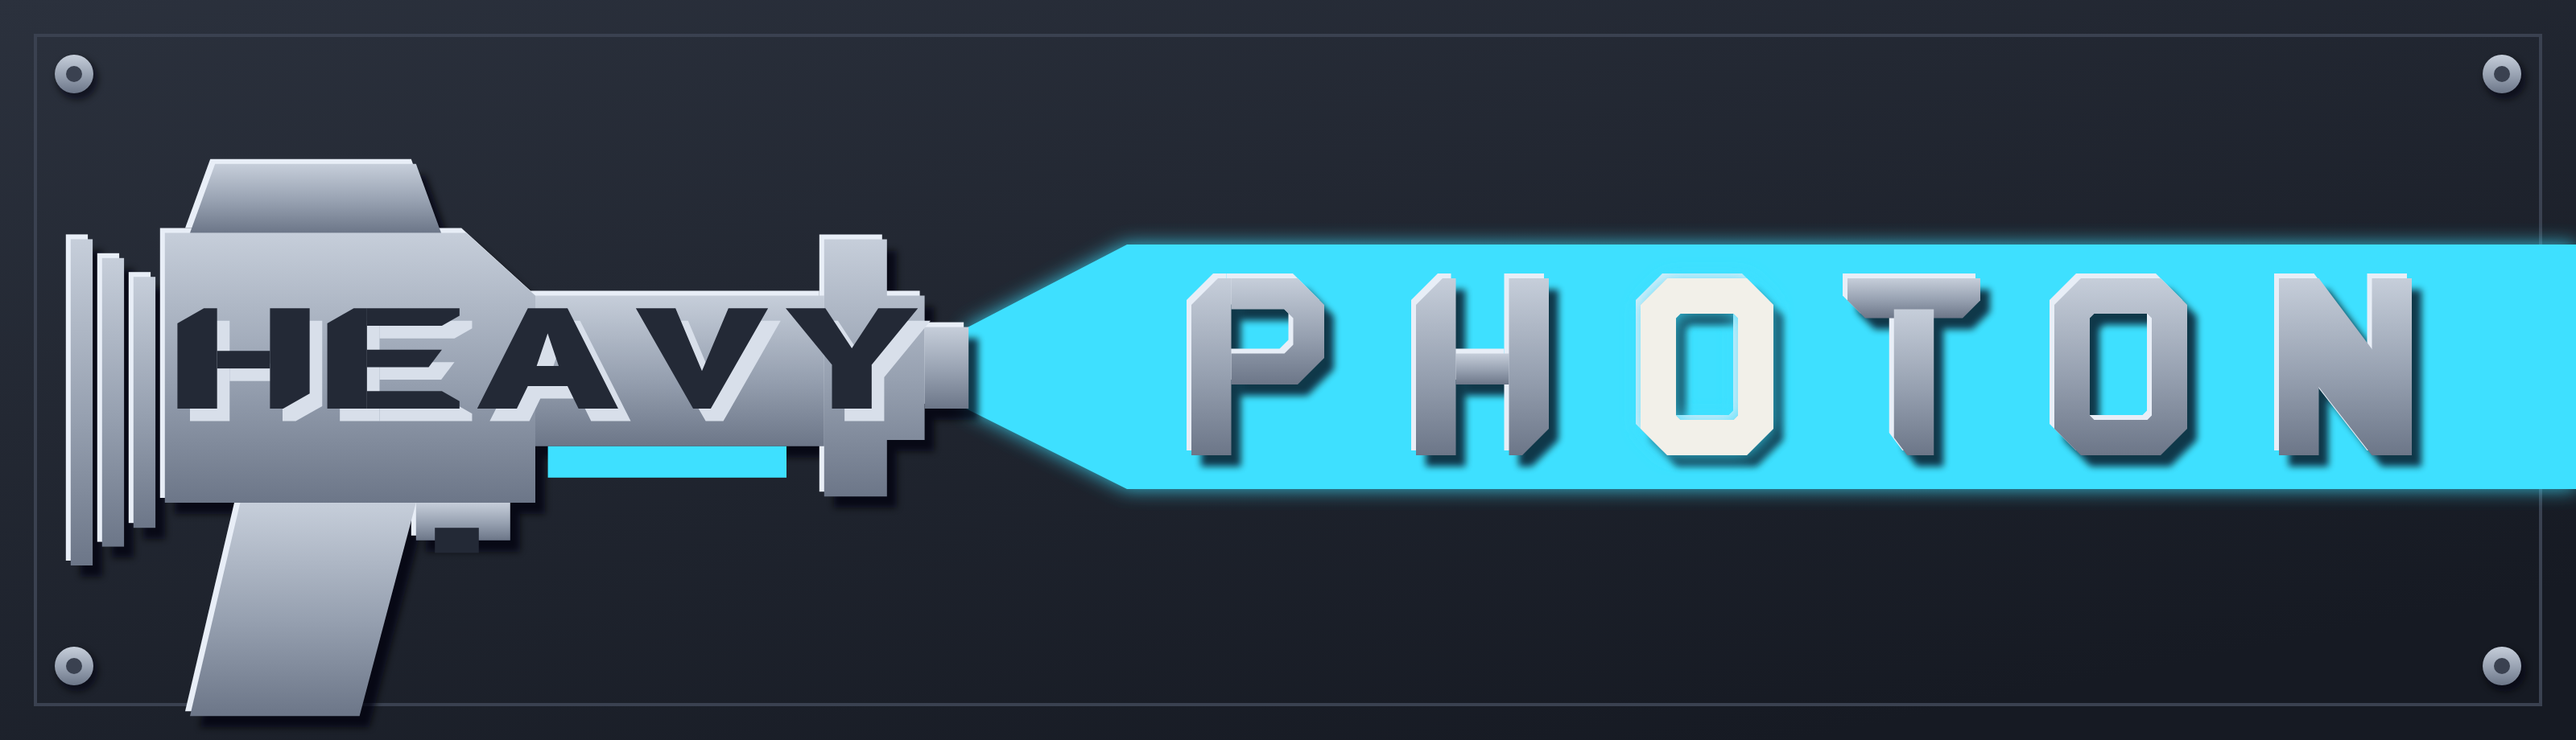
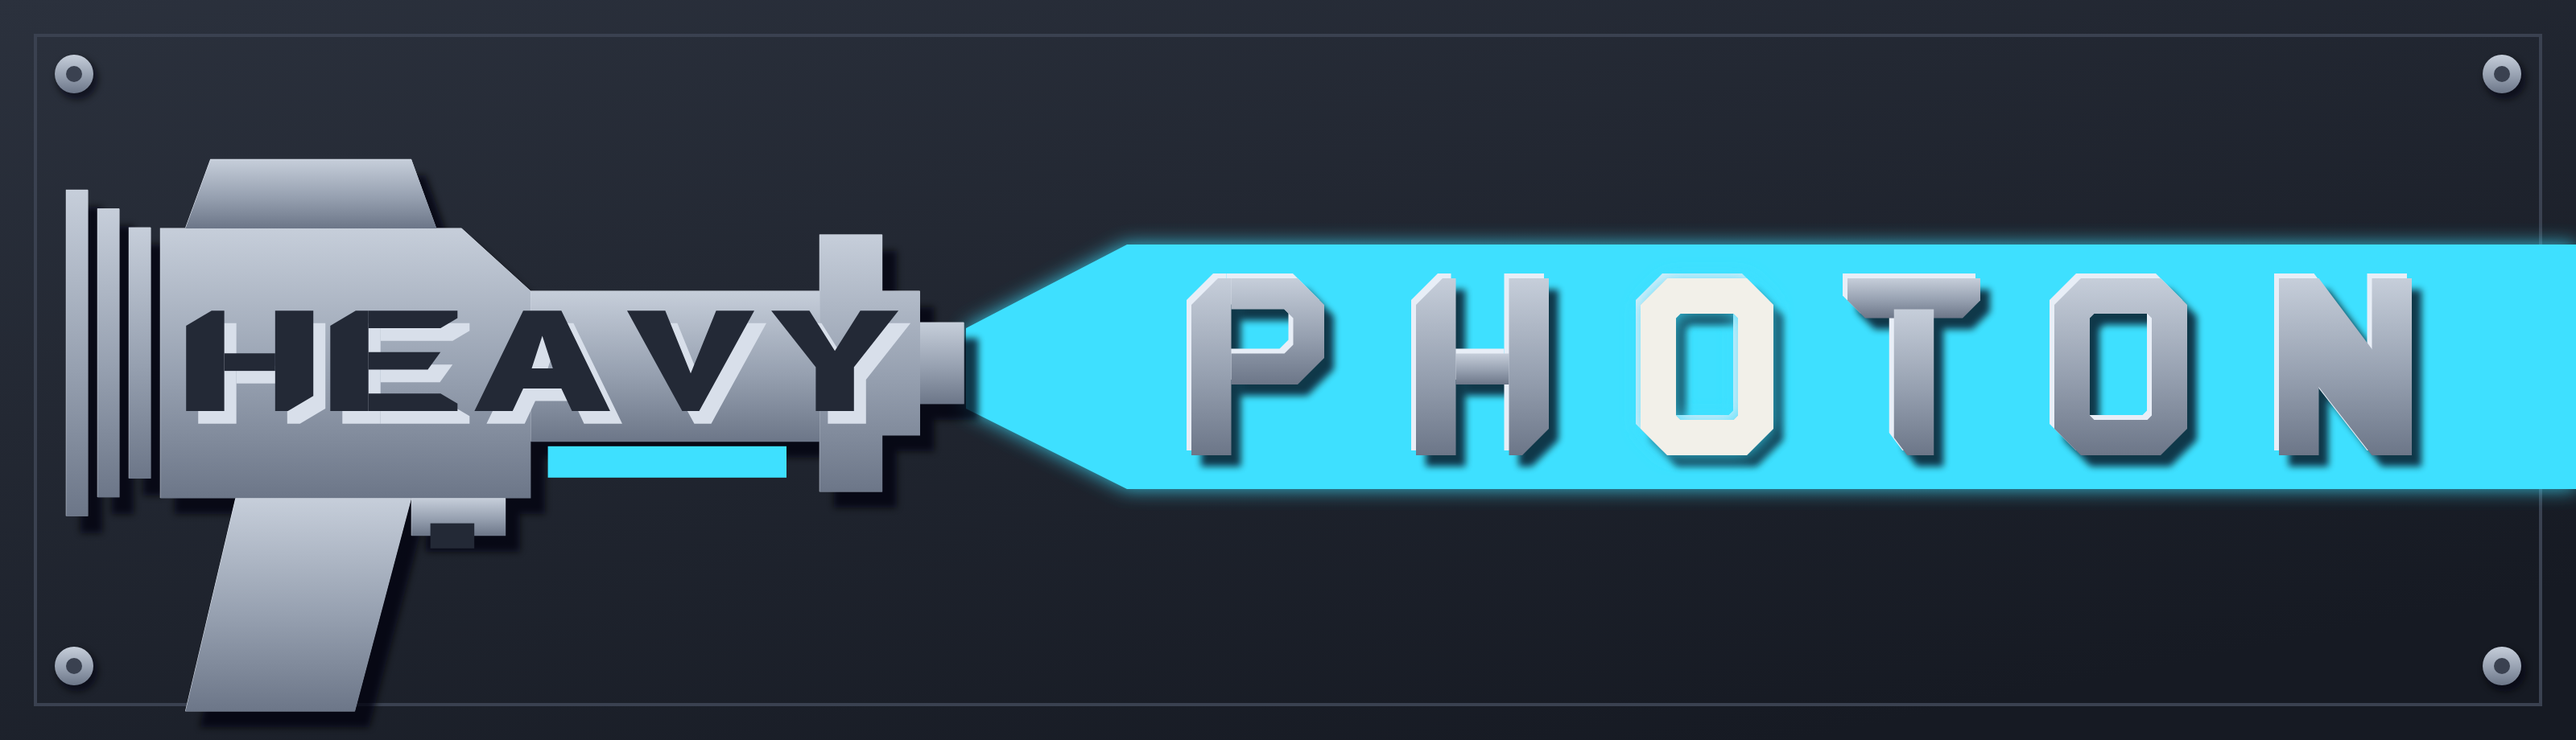
Restructure compact cuts into per-object groups for hand editing
Every gun part (fins, grip, body, sight, trigger, barrel, muzzle, tip)
and every letter is now its own named group stacking all of its layers
- shadow, highlight, face, and attached details - so resizing an object
in an editor moves its fx with it. Steel cut gains per-part shadows as
a side effect (parts now shade each other). Generator now refuses to
overwrite SVGs re-saved from Inkscape, protecting hand edits.

Claude-Session: https://claude.ai/code/session_01GDhheF8L6mvevw6cngMkTc

diff --git a/branding/genlogos.py b/branding/genlogos.py
@@ -71,10 +71,18 @@ def justify_spacing(text, target_w):
     return (target_w - glyph_w) / (len(text) - 1)
 
 def svg_file(name, w, h, body, bg=None):
+    path = os.path.join(OUT, name)
+    # never clobber a file that was hand-edited in Inkscape; delete it first
+    # if you really want to regenerate it from here
+    if os.path.exists(path):
+        with open(path) as f:
+            if "inkscape" in f.read(4096):
+                print("SKIP", name, "(hand-edited in Inkscape)")
+                return
     bgrect = f'<rect width="{w}" height="{h}" fill="{bg}"/>' if bg else ""
     doc = (f'<svg xmlns="http://www.w3.org/2000/svg" viewBox="0 0 {w} {h}" '
            f'width="{w}" height="{h}">{bgrect}{body}</svg>')
-    with open(os.path.join(OUT, name), "w") as f:
+    with open(path, "w") as f:
         f.write(doc)
     print("wrote", name)
 
@@ -617,15 +625,73 @@ def brand_photon_small(fill, accent):
 
 CHARGE_TICK = 'M292,98 L304,107 L292,116 Z'
 
+# The compact cuts are structured for hand-editing: every part of the gun is
+# its own <g id=...> containing ALL of that part's layers (shadow, highlight,
+# face, plus attached details like the rail or trigger notch), so scaling or
+# moving one object in an editor carries its fx copies with it.
+COMPACT_SHAPES = [
+    ("fin-1",   '<rect x="2" y="66" width="7" height="104"/>'),
+    ("fin-2",   '<rect x="12" y="72" width="7" height="92"/>'),
+    ("fin-3",   '<rect x="22" y="78" width="7" height="80"/>'),
+    ("grip",    '<path d="M56,150 L112,150 L94,218 L40,218 Z"/>'),
+    ("body",    '<path d="M32,64 L128,64 L150,76 L150,150 L32,150 Z"/>'),
+    ("sight",   '<path d="M48,42 L112,42 L120,64 L40,64 Z"/>'),
+    ("trigger", '<rect x="112" y="150" width="30" height="12"/>'),
+    ("barrel",  '<path d="M150,76 L242,76 L242,140 L150,140 Z"/>'),
+    ("muzzle",  '<path d="M242,66 L262,66 L262,82 L274,82 L274,134 '
+                'L262,134 L262,148 L242,148 Z"/>'),
+    ("tip",     '<rect x="274" y="94" width="14" height="26"/>'),
+]
+
+def compact_extras(name, accent, notch_fill):
+    """Details that belong inside a specific object's group."""
+    if name == "trigger":
+        return f'<rect x="118" y="158" width="14" height="8" fill="{notch_fill}"/>'
+    if name == "barrel":
+        return f'<rect x="154" y="144" width="76" height="10" fill="{accent}"/>'
+    if name == "tip":
+        return f'<path d="{CHARGE_TICK}" fill="{accent}"/>'
+    return ""
+
+def wordmark2_grouped(text, spacing=12, accents=None, accent_fill=None,
+                      layers=(("", (0, 0)),), kern=None, prefix="g"):
+    """Per-glyph groups; each glyph group stacks one copy per layer
+    (fill, (dx,dy)) bottom-to-top, so a glyph's fx move with the glyph.
+    Accent glyphs swap the TOP layer's fill for accent_fill."""
+    accents = accents or set()
+    kern = kern or {}
+    x = 0.0
+    out = []
+    for i, ch in enumerate(text):
+        if ch != " ":
+            parts = "".join(glyph_parts2(ch, 0))
+            copies = []
+            for li, (fill, (dx, dy)) in enumerate(layers):
+                f = fill
+                if i in accents and accent_fill and li == len(layers) - 1:
+                    f = accent_fill
+                attr = f' fill="{f}"' if f else ""
+                tr = f' transform="translate({dx} {dy})"' if (dx or dy) else ""
+                copies.append(f'<g{attr}{tr}>{parts}</g>')
+            out.append(f'<g id="{prefix}-{ch.lower()}{i}" '
+                       f'transform="translate({x} 0)">{"".join(copies)}</g>')
+        x += GLYPHS2[ch]["w"] + spacing + kern.get(i, 0)
+    return "".join(out)
+
 def raygun_v2_compact():
     W, H = CP["W"], CP["H"]
-    body = [f'<g transform="{CP["gun_t"]}">'
-            f'<g fill="{BONE}">{raygun2_struct(fat=True, shelf=False)}</g>'
-            f'{raygun2_energy(CYAN, vents=False, rail_y=144)}'
-            f'<rect x="118" y="158" width="14" height="8" fill="{INK}"/>'
-            f'{brand_heavy(INK, 92)}'
-            f'{brand_photon_small(INK, CYAN)}'
-            f'<path d="{CHARGE_TICK}" fill="{CYAN}"/></g>']
+    objs = []
+    for name, el in COMPACT_SHAPES:
+        objs.append(f'<g id="{name}"><g fill="{BONE}">{el}</g>'
+                    f'{compact_extras(name, CYAN, INK)}</g>')
+    heavy = wordmark2_grouped("HEAVY", 8, prefix="heavy")
+    photon = wordmark2_grouped("PHOTON", 58.3, accents={2}, accent_fill=CYAN,
+                               prefix="photon")
+    objs.append(f'<g id="word-heavy" fill="{INK}" '
+                f'transform="translate(36 92) scale(0.702 0.4)">{heavy}</g>')
+    objs.append(f'<g id="word-photon" fill="{INK}" '
+                f'transform="translate(36 130) scale(0.175)">{photon}</g>')
+    body = [f'<g id="gun" transform="{CP["gun_t"]}">{"".join(objs)}</g>']
     svg_file("raygun-v2-compact.svg", W, H, "".join(body), bg=INK)
 
 def raygun_v2_compact_steel():
@@ -651,20 +717,28 @@ def raygun_v2_compact_steel():
                     f'opacity="0.6" filter="url(#soften3)"/>'
                     f'<circle cx="{bx}" cy="{by}" r="12" fill="url(#steel3)"/>'
                     f'<circle cx="{bx}" cy="{by}" r="5" fill="#3A4150"/>')
-    content = (f'<g transform="{CP["gun_t"]}">'
-               f'{raygun2_struct(fat=True, shelf=False)}</g>')
-    body.append(f'<g fill="#04060A" opacity="0.75" filter="url(#soften3)" '
-                f'transform="translate(6 7)">{content}</g>')
-    body.append(f'<g fill="#E8EEF7" transform="translate(-3 -3)">{content}</g>')
-    body.append(f'<g fill="url(#steel3)">{content}</g>')
-    body.append(f'<g transform="{CP["gun_t"]}">'
-                f'<g transform="translate(3 3)">{brand_heavy("#D8DFEA", 92)}'
-                f'{brand_photon_small("#D8DFEA", "#D8DFEA")}</g>'
-                f'{brand_heavy("#232936", 92)}'
-                f'{brand_photon_small("#232936", CYAN)}'
-                f'<rect x="118" y="158" width="14" height="8" fill="#232936"/>'
-                f'{raygun2_energy(CYAN, vents=False, rail_y=144)}'
-                f'<path d="{CHARGE_TICK}" fill="{CYAN}"/></g>')
+    # per-object groups: each part stacks its own shadow/highlight/face
+    objs = []
+    for name, el in COMPACT_SHAPES:
+        objs.append(
+            f'<g id="{name}">'
+            f'<g fill="#04060A" opacity="0.75" filter="url(#soften3)" '
+            f'transform="translate(6 7)">{el}</g>'
+            f'<g fill="#E8EEF7" transform="translate(-3 -3)">{el}</g>'
+            f'<g fill="url(#steel3)">{el}</g>'
+            f'{compact_extras(name, CYAN, "#232936")}</g>')
+    # debossed words: each glyph group stacks its highlight + dark stamp
+    heavy = wordmark2_grouped(
+        "HEAVY", 8, prefix="heavy",
+        layers=(("#D8DFEA", (4.3, 7.5)), ("#232936", (0, 0))))
+    photon = wordmark2_grouped(
+        "PHOTON", 58.3, accents={2}, accent_fill=CYAN, prefix="photon",
+        layers=(("#D8DFEA", (17, 17)), ("#232936", (0, 0))))
+    objs.append(f'<g id="word-heavy" '
+                f'transform="translate(36 92) scale(0.702 0.4)">{heavy}</g>')
+    objs.append(f'<g id="word-photon" '
+                f'transform="translate(36 130) scale(0.175)">{photon}</g>')
+    body.append(f'<g id="gun" transform="{CP["gun_t"]}">{"".join(objs)}</g>')
     svg_file("raygun-v2-compact-steel.svg", W, H, "".join(body))
 
 raygun_v2_compact()

diff --git a/branding/README.md b/branding/README.md
@@ -28,6 +28,20 @@ blade-cut terminals, pointed A/V), accent-lit letters, and no GAMES line:
 | 03.8 | `raygun-v2-compact.svg` | **Compact** — gun-only lockup: HEAVY across the gun, PHOTON small and letterspaced tucked under the HEA, charge tick at the muzzle. |
 | 03.9 | `raygun-v2-compact-steel.svg` | **Compact Steel** — the compact cut debossed on the bolted plate. |
 
+## Editing the compact cuts
+
+`raygun-v2-compact.svg` and `raygun-v2-compact-steel.svg` are structured
+for hand-editing: every part of the gun is its own named group (`fin-1`,
+`grip`, `body`, `barrel`, `muzzle`, `tip`, `sight`, `trigger`, and one
+group per letter under `word-heavy` / `word-photon`). Each group stacks
+ALL of that object's layers — shadow, highlight, face, and attached
+details like the rail or trigger notch — so scaling or moving an object
+in Inkscape carries its fx with it.
+
+The generator also refuses to overwrite any SVG that has been re-saved
+from Inkscape (it detects the editor metadata), so hand edits are safe
+from an accidental `python3 genlogos.py`.
+
 ## Iteration archive
 
 `iterations/` preserves earlier design states as standalone SVG + PNG
